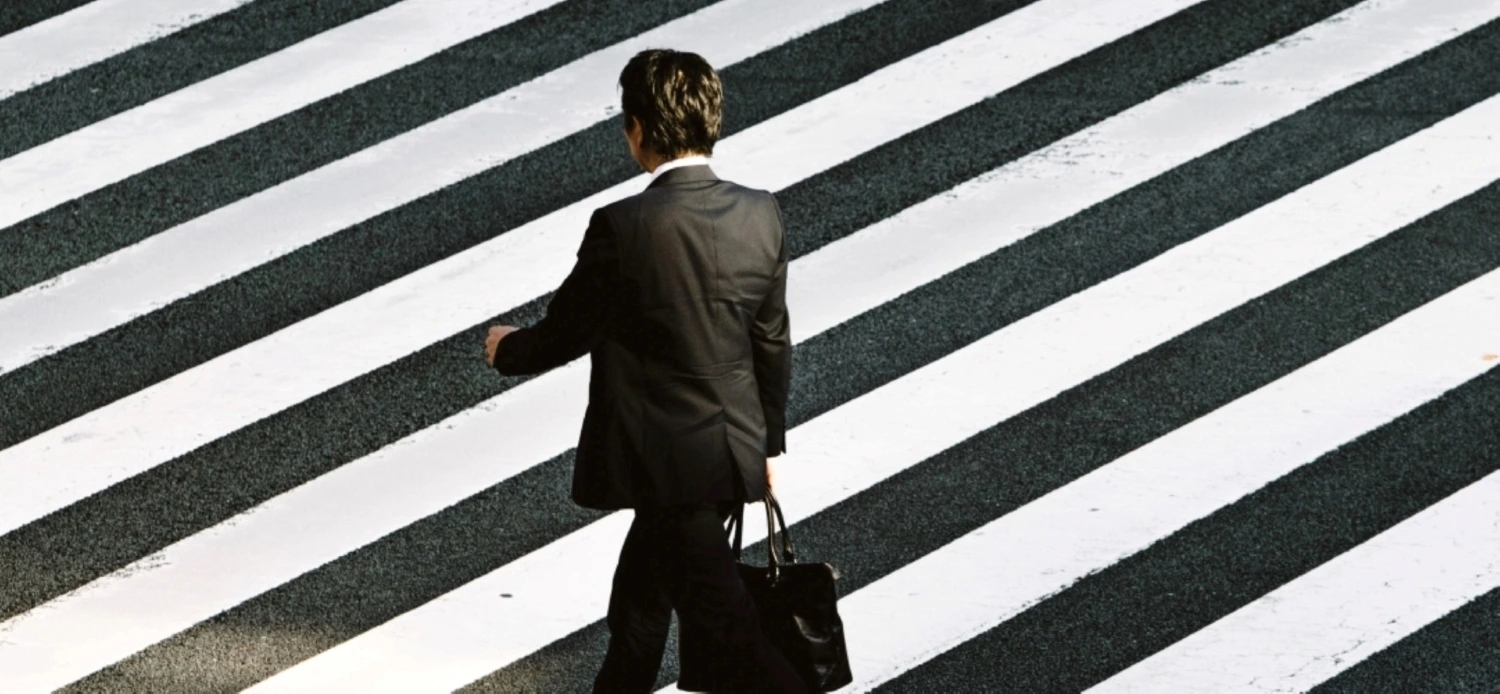
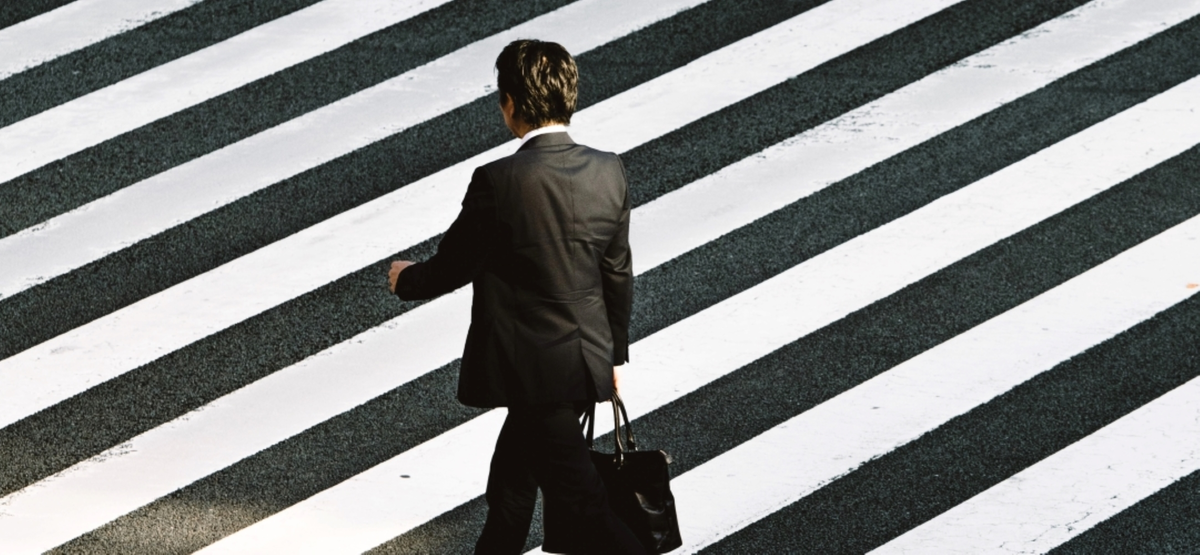
Images slider redimensionnées

diff --git a/index.html b/index.html
@@ -59,15 +59,15 @@
 				</div>
 				<div class="carousel-inner">
 					<div class="carousel-item active one">
-						<img width="750" height="348" src="./assets/images/slider/wedding_photo.webp"
+						<img width="1200" height="555" src="./assets/images/slider/wedding_photo.webp"
 							class="d-block w-100" alt="Photo de mariage">
 					</div>
 					<div class="carousel-item two">
-						<img width="750" height="348" src="./assets/images/slider/audience_in_a_concert.webp"
+						<img width="1200" height="555" src="./assets/images/slider/audience_in_a_concert.webp"
 							class="d-block w-100" alt="Public à un concert">
 					</div>
 					<div class=" carousel-item three">
-						<img width="750" height="348" src="./assets/images/slider/pedestrian_crossing.webp"
+						<img width="1200" height="555" src="./assets/images/slider/pedestrian_crossing.webp"
 							class="d-block w-100" alt="Homme sur un passage piéton">
 					</div>
 				</div>
